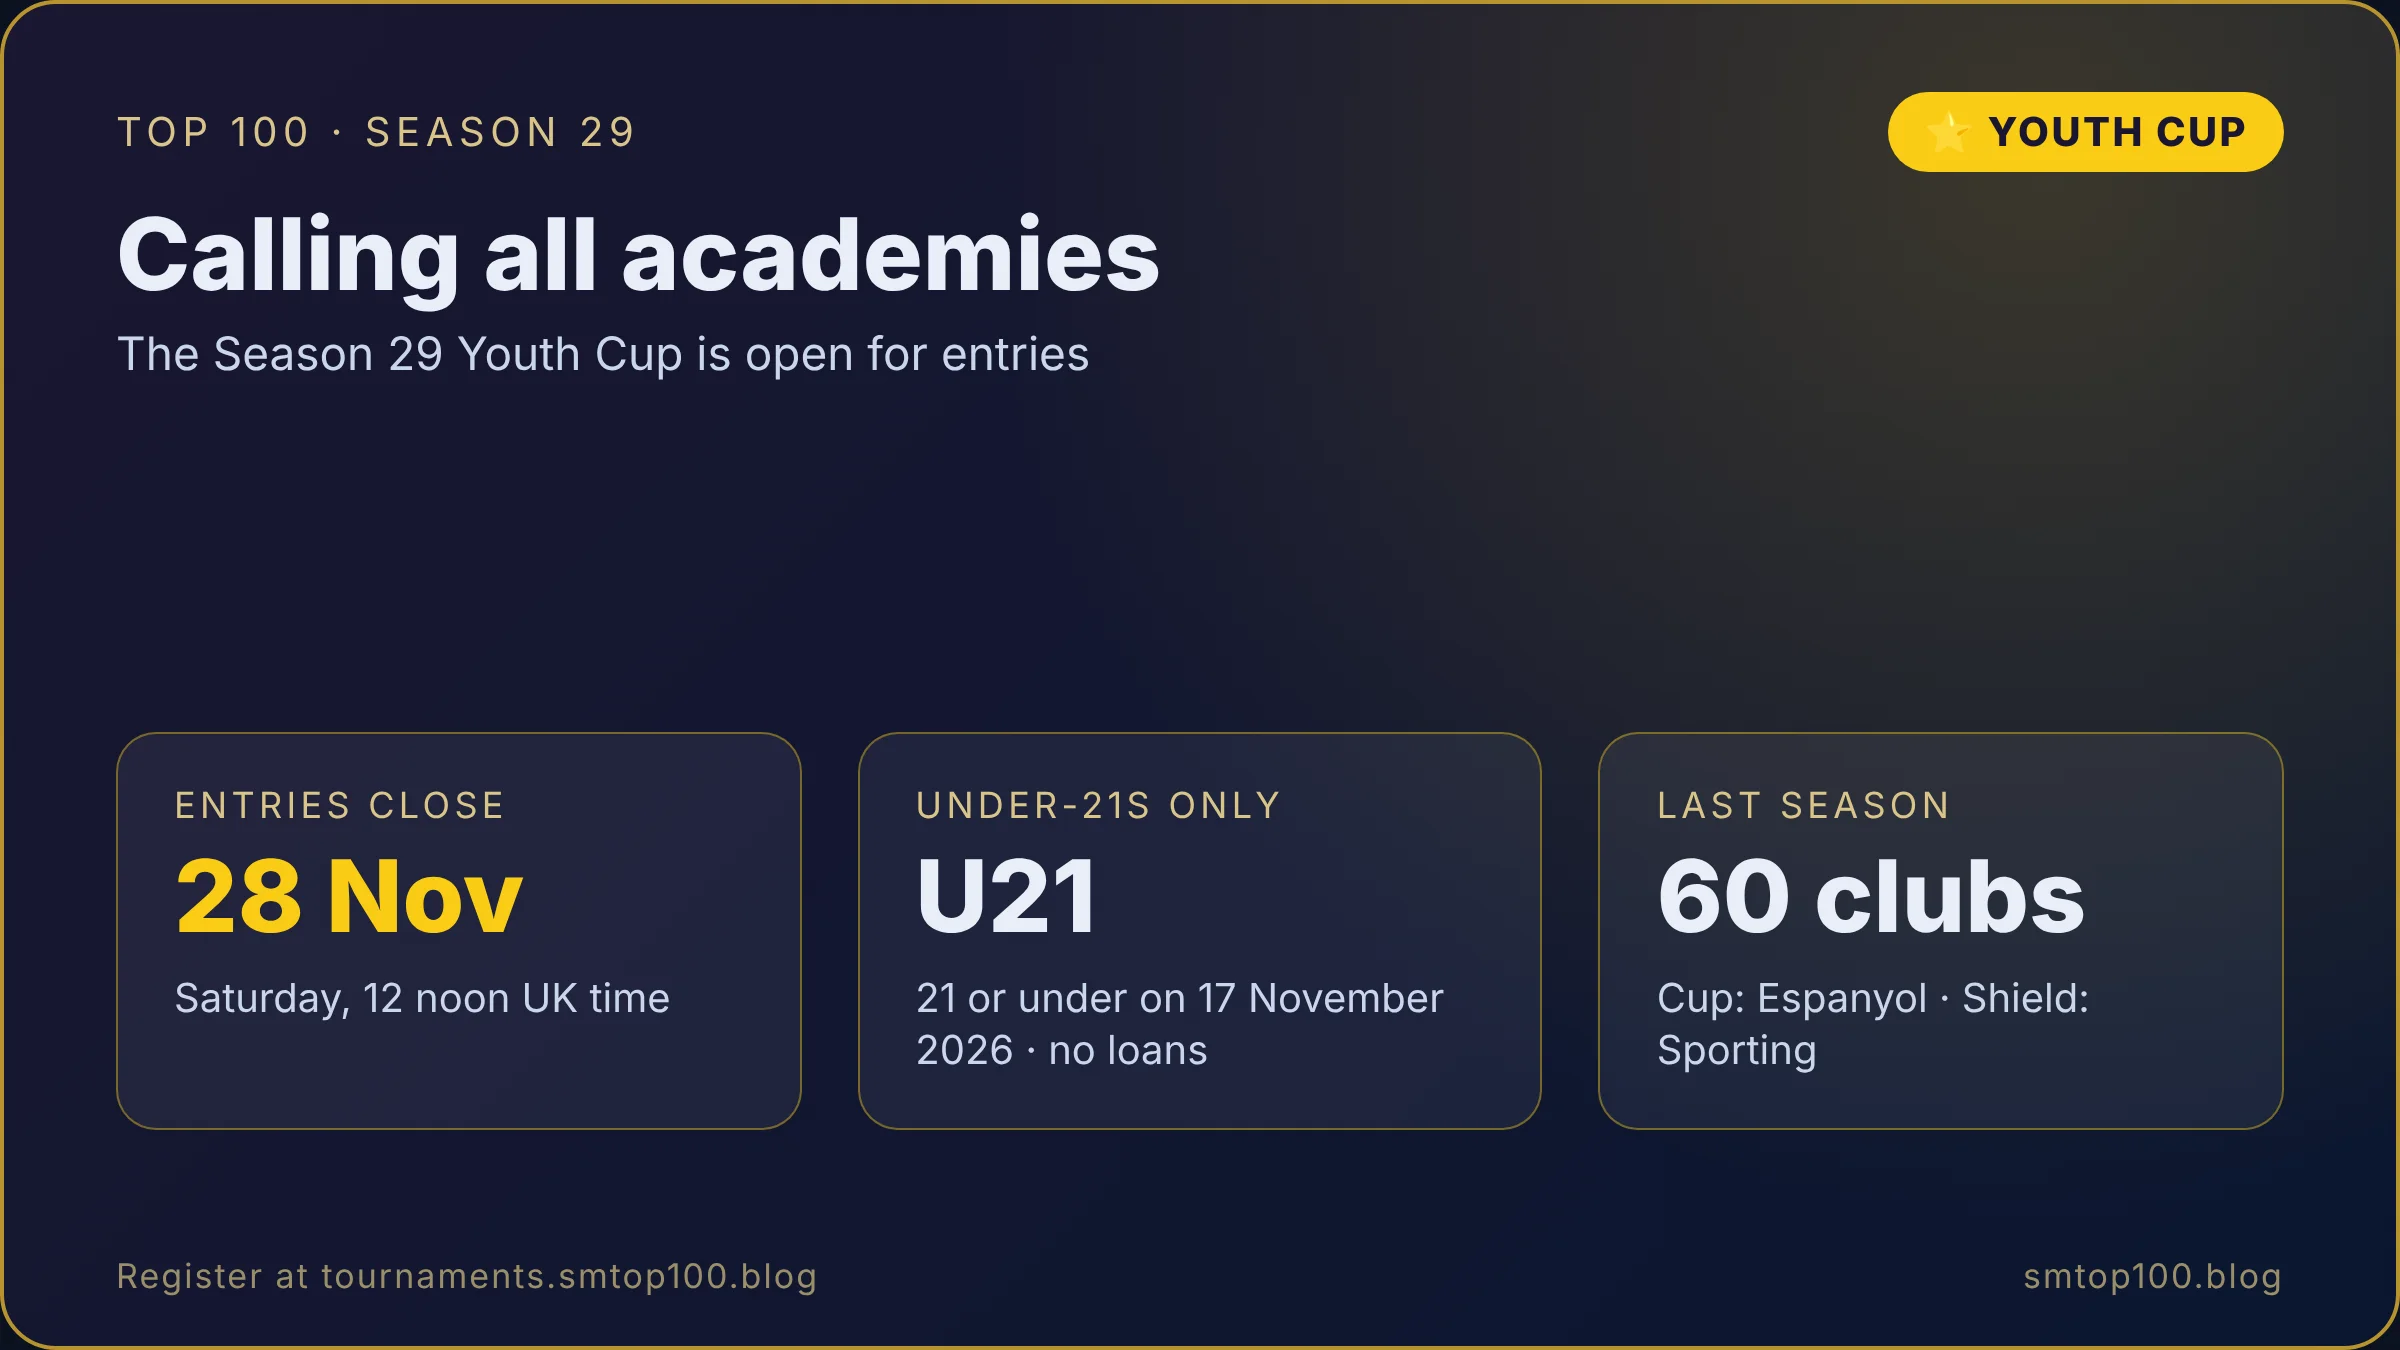
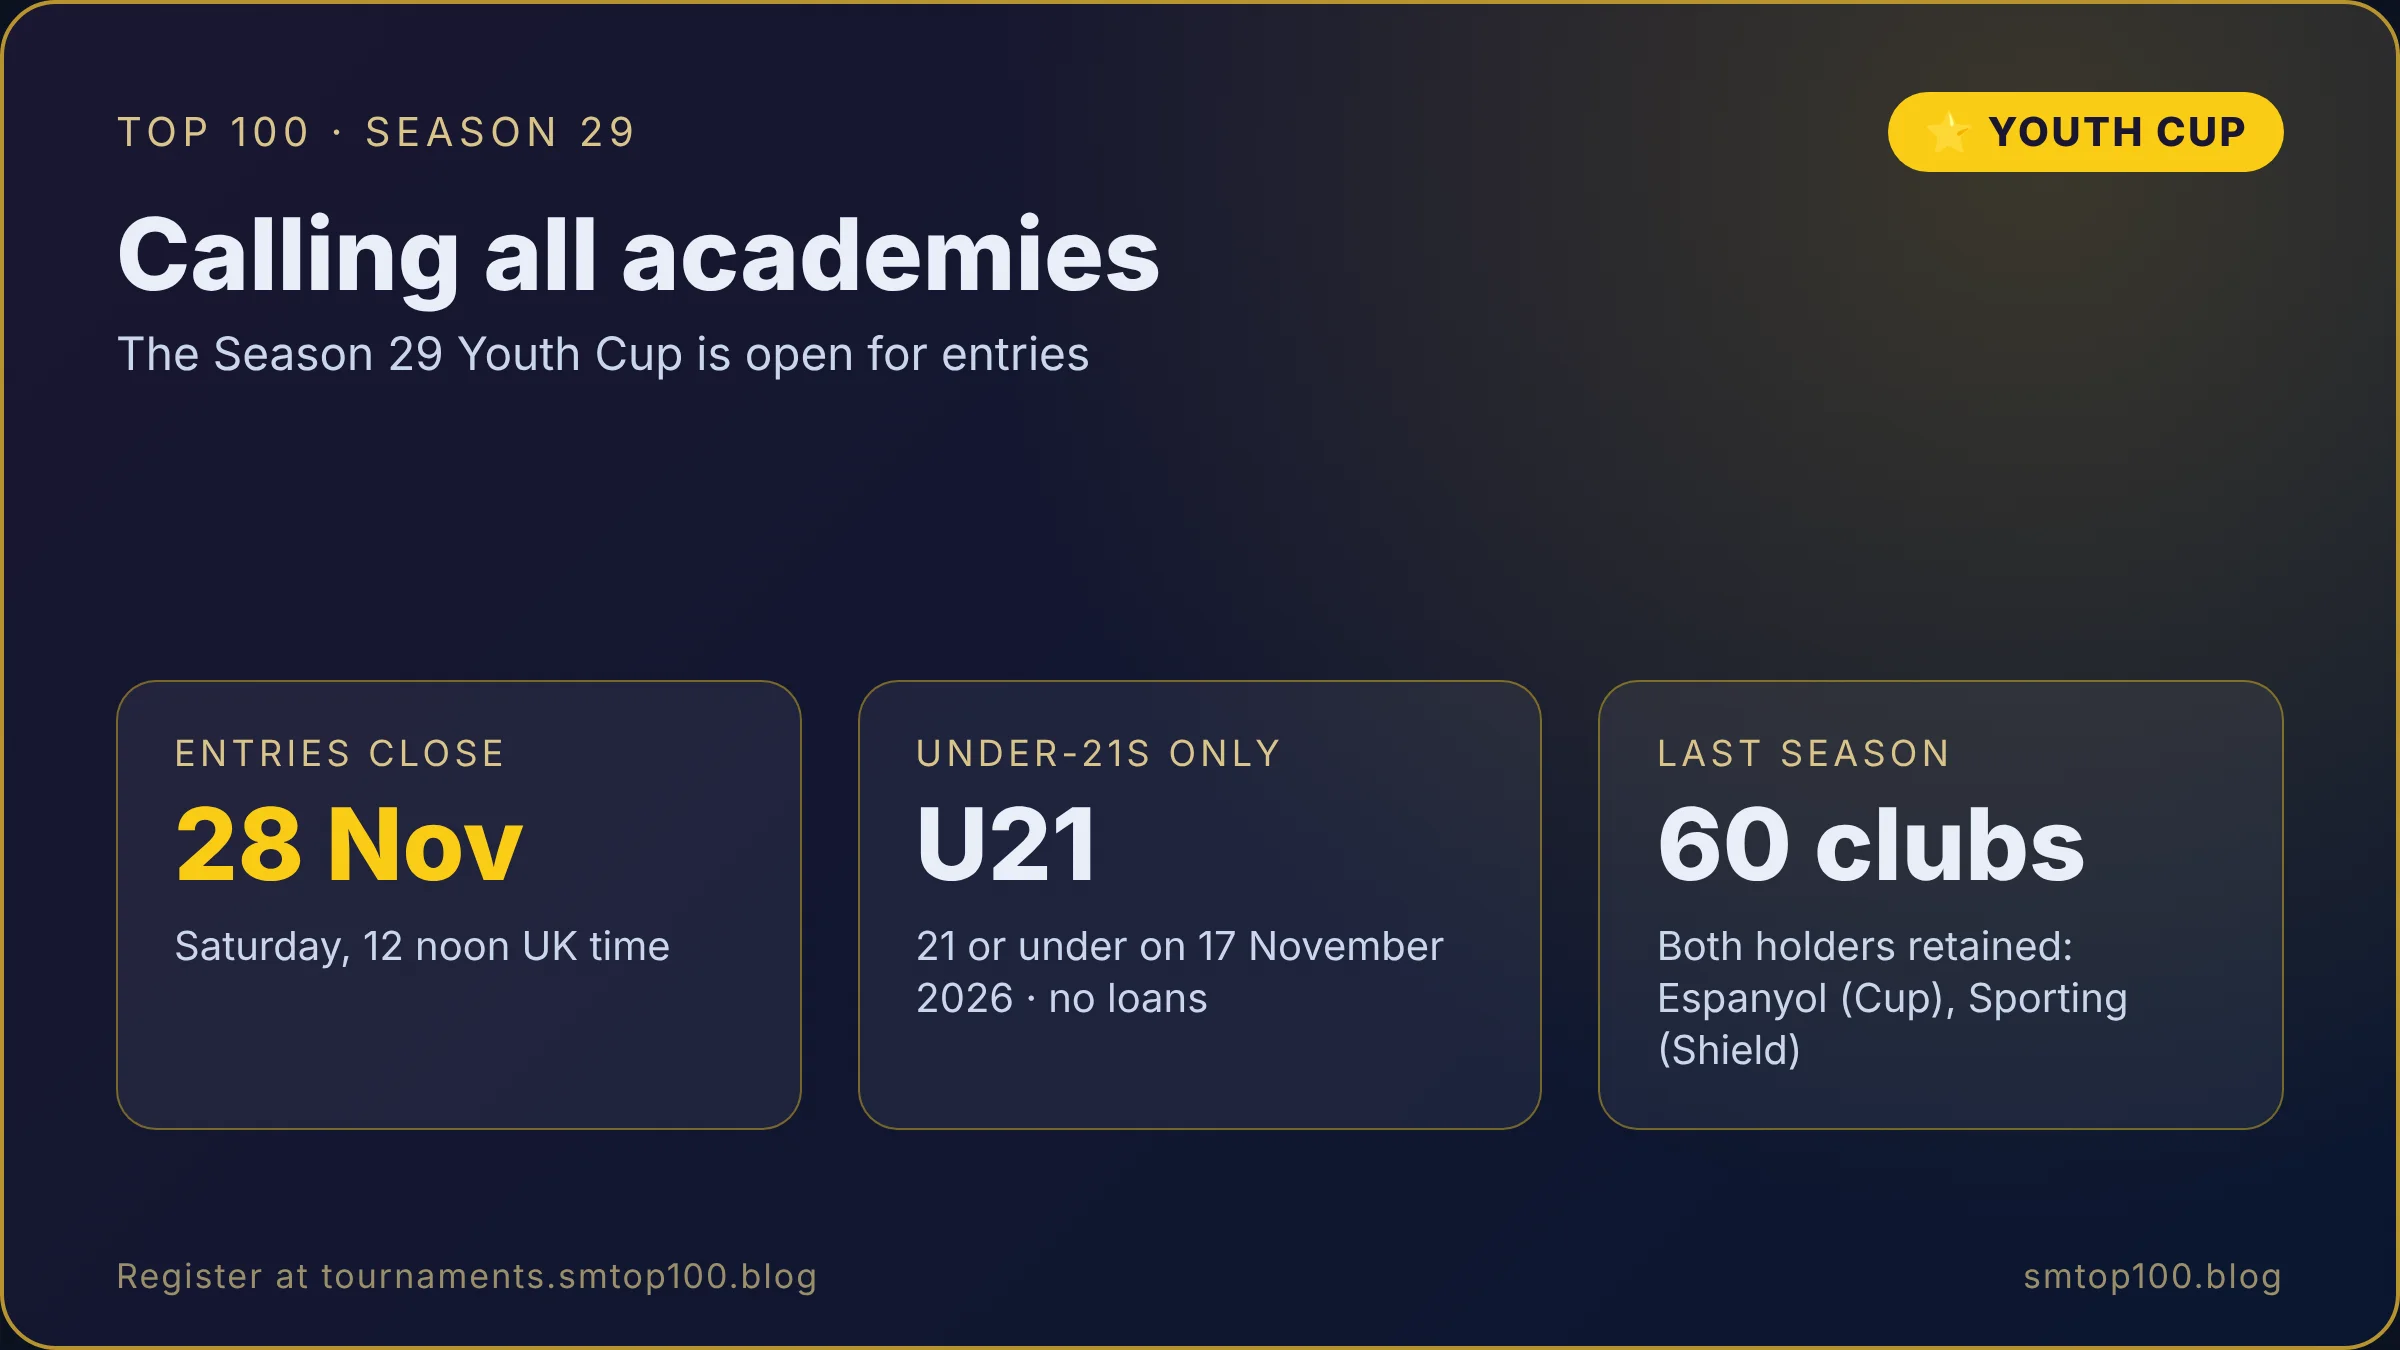
Youth Cup S29 graphic: both holders retained
Claude-Session: https://claude.ai/code/session_01VdxSbxUVZXYKkAZaL5GZKT

Changed region(s): [[0.6875, 0.5289, 0.875, 0.8089], [0.375, 0.5289, 0.5938, 0.8089], [0.0625, 0.5289, 0.2812, 0.7467]]

diff --git a/docs/appointment-cards/s29-yc-cards.html b/docs/appointment-cards/s29-yc-cards.html
@@ -67,7 +67,7 @@ h1{font-size:50px;line-height:1.05;margin-top:16px;font-weight:800}
   <div class="big">
     <div class="tile"><div class="k">Entries close</div><div class="v gold">28 Nov</div><div class="d">Saturday, 12 noon UK time</div></div>
     <div class="tile"><div class="k">Under-21s only</div><div class="v">U21</div><div class="d">21 or under on 17 November 2026 · no loans</div></div>
-    <div class="tile"><div class="k">Last season</div><div class="v">60 clubs</div><div class="d">Cup: Espanyol · Shield: Sporting</div></div>
+    <div class="tile"><div class="k">Last season</div><div class="v">60 clubs</div><div class="d">Both holders retained: Espanyol (Cup), Sporting (Shield)</div></div>
   </div>
   <div class="foot"><span>Register at tournaments.smtop100.blog</span><span>smtop100.blog</span></div>
 </div>
